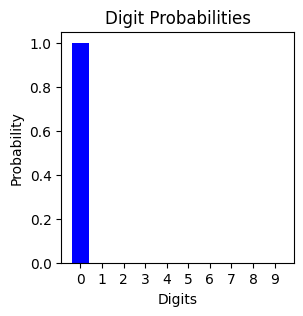
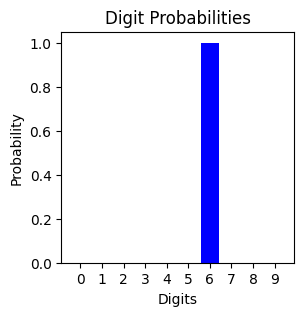
规范化train.py

Changed region(s): [[0.6535, 0.1139, 0.7426, 0.8544], [0.2376, 0.1139, 0.297, 0.8544]]

diff --git a/train.py b/train.py
@@ -1,28 +1,38 @@
 from MODEL.model import CNNModel
 from utils import *
-import cv2
-# getting dataset
-# C:\Users\29192\.keras\datasets\mnist.npz
+import tensorflow as tf
+
+# ===================== Preparation =====================
+# Load the MNIST dataset from local keras storage
 mnist = tf.keras.datasets.mnist
 (x_train, y_train), (x_test, y_test) = mnist.load_data()
 
-# normalization to [0-1]
-x_train , x_test = imageNormalization(x_train, x_test)
+# Normalize and reshape the images to [num_samples, 28, 28, 1]
+x_train, x_test = imageNormalization(x_train, x_test)
+# ===================== Preparation =====================
 
+def main():
+    # ===================== Train / Load Model =====================
+    model_path = "MODEL/cnn_model.h5"
 
-checkMNISTdata(x_train, y_train, x_test, y_test)
-# checkMATPLOTLIB(x_train[0], y_train[0])
+    # Initialize the CNN model with input shape and model path
+    model = CNNModel(x_train.shape[1:], model_path=model_path)
+    model.summary()
 
-# ===================== model =====================
-model_path = "MODEL/cnn_model.h5"
-model = CNNModel(x_train.shape[1:], model_path = model_path)
-model.summary()
-# train
-if not model.is_load:
-    model.compile(loss = "sparse_categorical_crossentropy", optimizer = "adam", metrics=['accuracy'])
-    model.train(x_train, y_train, epochs = 5, validation_split = 0.3)
-    # save
-    model.save()
-# evaluate
-model.evaluate(x_test,y_test)
-# ===================== model =====================
+    # If model is not loaded, compile and train it
+    if not model.is_load:
+        model.compile(
+            loss="sparse_categorical_crossentropy",
+            optimizer="adam",
+            metrics=["accuracy"]
+        )
+        model.train(x_train, y_train, epochs=5, validation_split=0.3)
+        model.save()  # Save the trained model
+
+    # Evaluate the model on the test set
+    model.evaluate(x_test, y_test)
+    # ===================== Train / Load Model =====================
+
+# Entry point of the script
+if __name__ == "__main__":
+    main()

diff --git a/utils.py b/utils.py
@@ -9,6 +9,7 @@ import os
 
 from MODEL.model import CNNModel
 IMG_SIZE = 28
+'''
 def checkMATPLOTLIB(image, label):
     plt.figure(figsize=(12, 4))  # 设置整体图像大小
 
@@ -31,6 +32,9 @@ def checkMNISTdata(x_train, y_train, x_test, y_test):
     print(f"y_train shape: {y_train.shape}") # labels
     print(f"x_test shape: {x_test.shape}")
     print(f"y_train shape: {y_test.shape}")
+
+'''
+# ===================== image processing ===================== #
 def imageNormalization(x_train, x_test):
 
     # x_train = tf.keras.utils.normalize(x_train, axis = 1)
@@ -41,8 +45,6 @@ def imageNormalization(x_train, x_test):
     x_train = np.array(x_train).reshape(-1, IMG_SIZE, IMG_SIZE, 1)
     x_test = np.array(x_test).reshape(-1, IMG_SIZE, IMG_SIZE, 1)
     return x_train, x_test
-
-# ===================== image processing ===================== #
 # load训练好的model进行数字预测
 model = CNNModel(input_shape=(28, 28, 1))
 
@@ -53,10 +55,6 @@ def put_label(t_img,label,x,y):
     cv2.rectangle(t_img,(l_x,l_y+5),(l_x+35,l_y-35),(0,255,0),-1)
     cv2.putText(t_img,str(label),(l_x,l_y), font,1.5,(255,0,0),1,cv2.LINE_AA)
     return t_img
-
-
-
-
 
 def image_refiner(gray):
     '''Image preprocessing, resized to 28x28'''

diff --git a/MODEL/model.py b/MODEL/model.py
@@ -4,7 +4,7 @@ import os
 import numpy as np
 
 class CNNModel:
-    def __init__(self, input_shape, model_path="MODEL/cnn_model.h5"):
+    def __init__(self, input_shape, model_path):
         self.model_path = model_path
         if os.path.exists(self.model_path):
             print(f"Loading model from {self.model_path}")
